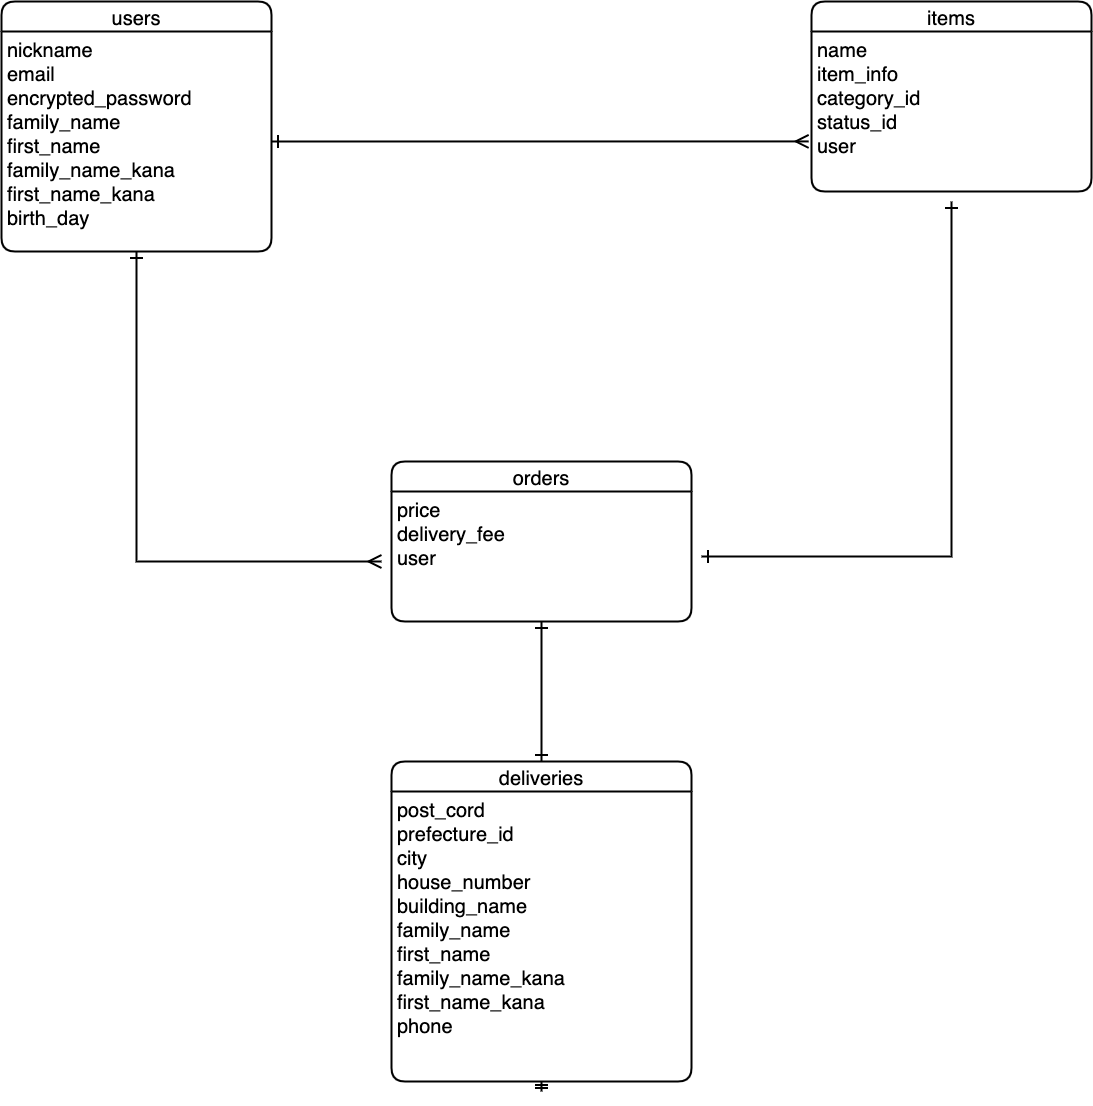
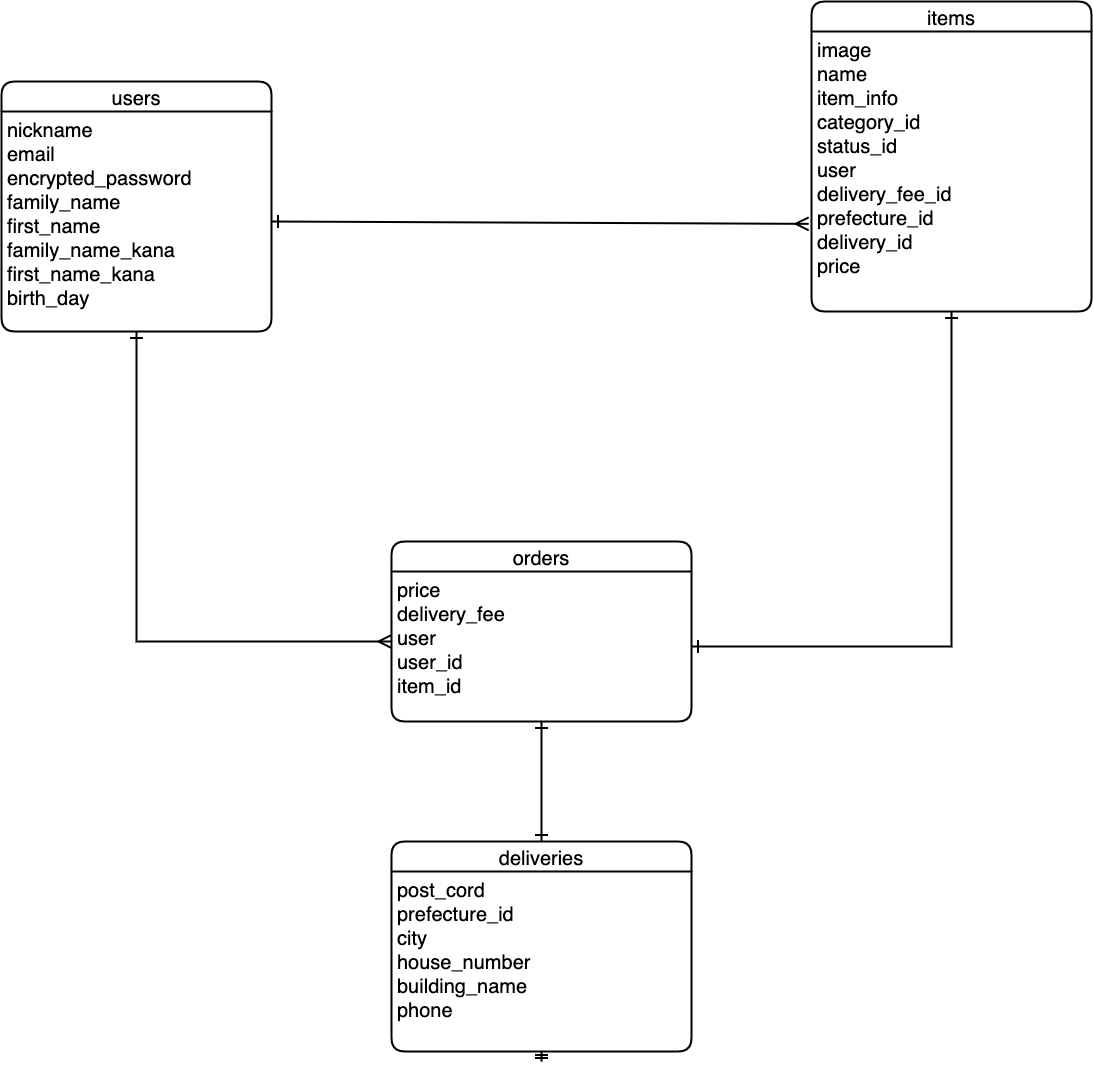
修正3

diff --git a/README.md b/README.md
@@ -38,12 +38,16 @@ has_many :orders
 has_many :items
 
 ## itemsテーブル
-|Column          |Type     |Options                       |
-|name            |string   |null: false                   |
-|item_info       |text     |null: false                   |
-|category_id     |integer  |null: false                   |
-|status_id       |integer  |null: false                   |
-|user            |reference|null: false, foreign_key: true|
+|Column         |Type     |Options                       |
+|name           |string   |null: false                   |
+|item_info      |text     |null: false                   |
+|category_id    |integer  |null: false                   |
+|status_id      |integer  |null: false                   |
+|user           |reference|null: false, foreign_key: true|
+|delivery_fee_id|integer  |null: false                   |
+|prefecture_id  |integer  |null: false                   |
+|delivery_id    |integer  |null: false                   |
+|price          |integer  |null: false                   |
 
 belongs_to :user
 has_one :order
@@ -53,6 +57,8 @@ has_one :order
 |price       |integer  |null: false                   |
 |delivery_fee|integer  |null: false                   |
 |user        |reference|null: false, foreign_key: true|
+|user_id     |reference|null: false, foreign_key: true|
+|item_id     |reference|null: false, foreign_key: true|
 
 belongs_to :user
 belongs_to :item
@@ -64,11 +70,7 @@ has_one :delivery
 |prefecture_id   |integer|null: false                   |
 |city            |string |null: false                   |
 |house_number    |string |null: false                   |
-|building_name   |string |null: false                   |
-|family_name     |string |null: false                   |
-|first_name      |string |null: false                   |
-|family_name_kana|string |null: false                   |
-|first_name_kana |string |null: false                   |
+|building_name   |string |                              |
 |phone           |string |null: false                   |
 
 belongs_to :order
